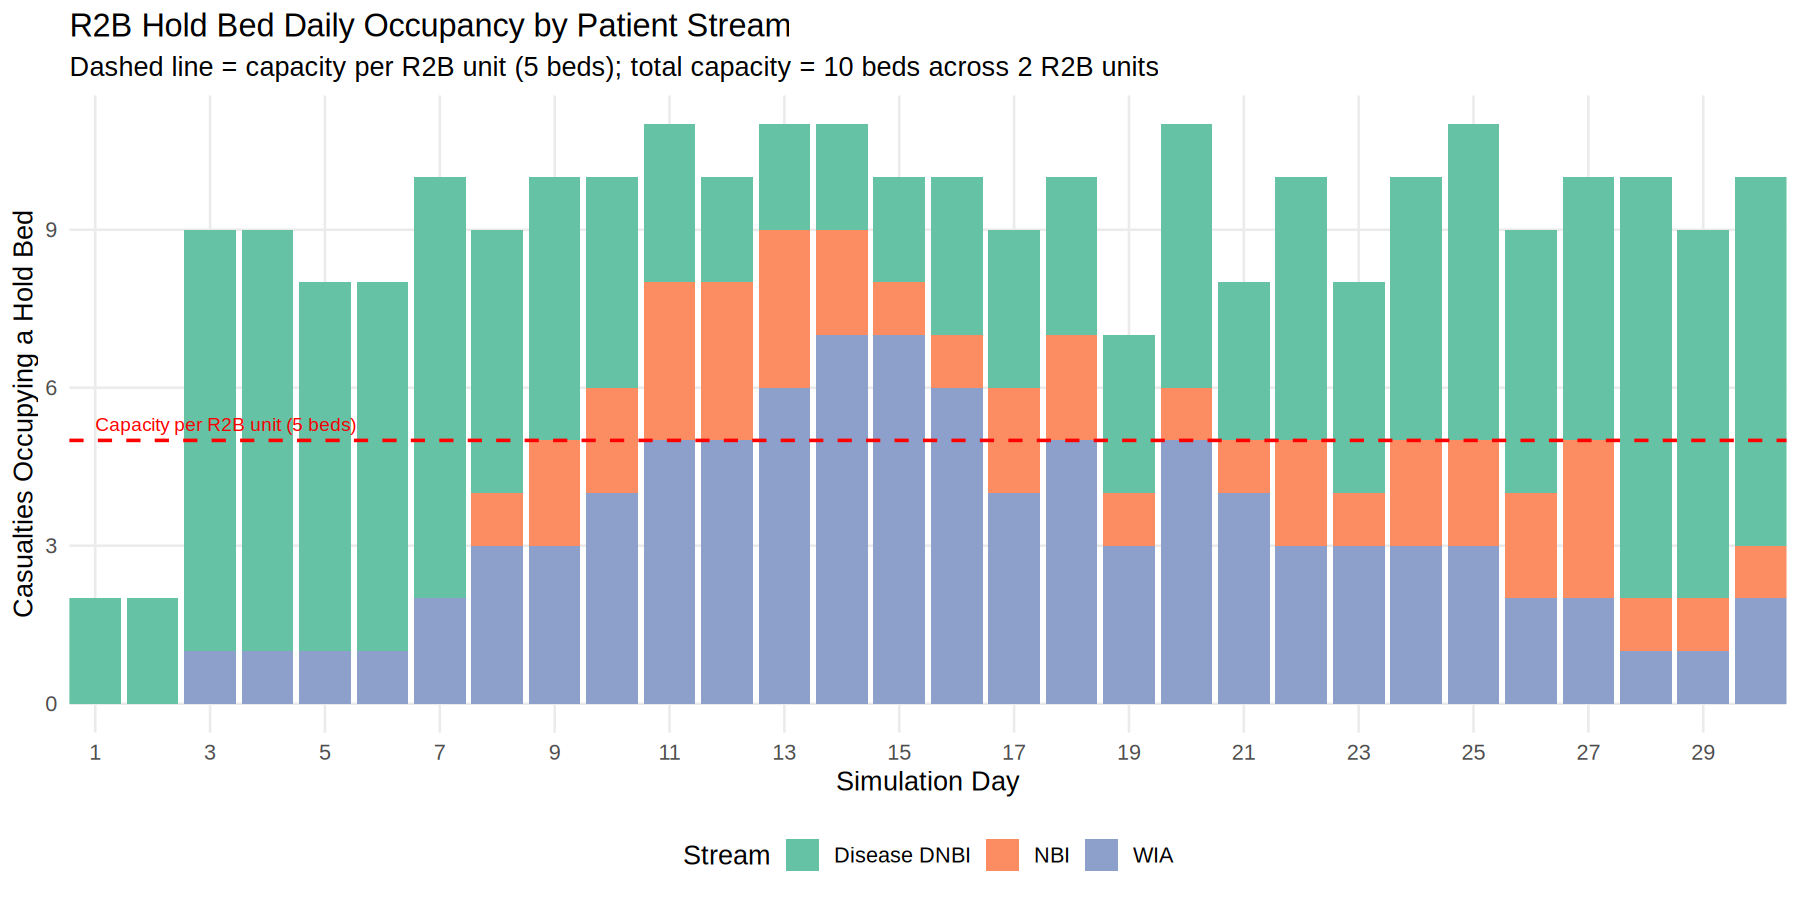
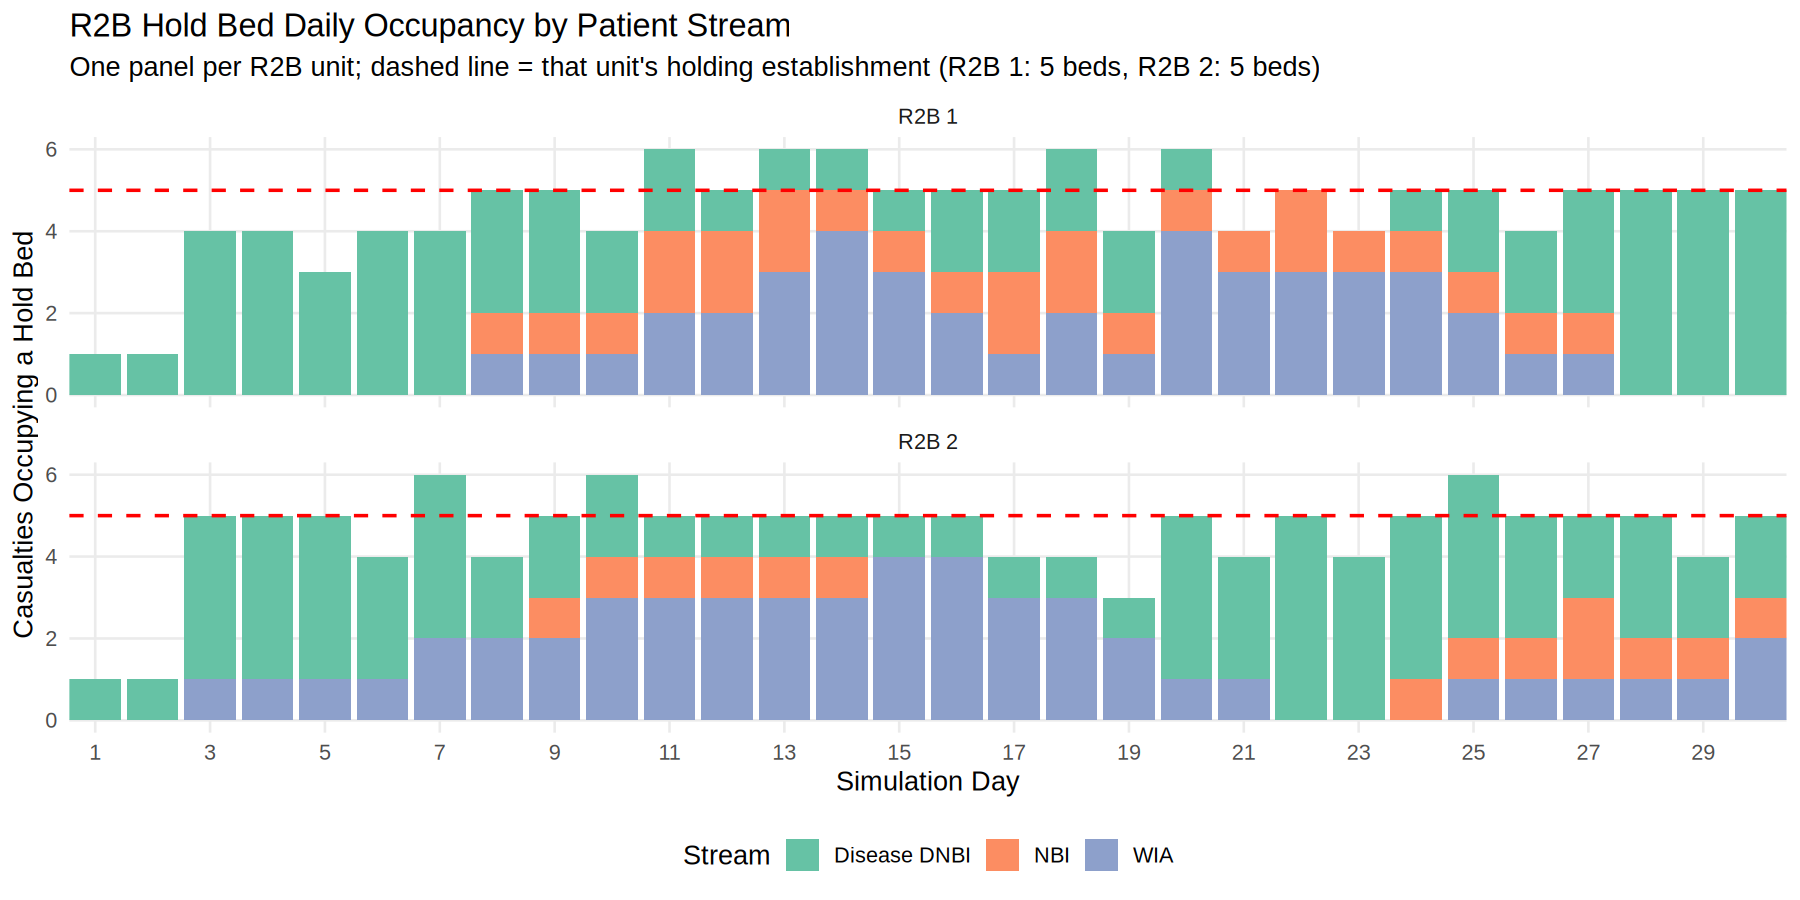
fix(issue-327): give each R2B unit its own occupancy panel and capacity line
The capacity line was drawn at one unit's five beds while the bars carried the
load of both, so the two were not comparable: a bar could sit above the line
while neither unit was over its own establishment, and a unit could be over its
own while the combined bar sat below. The line answered no question a reader
would ask of it.

Each unit now has its own panel and its own line. All fifty holding episodes
carry the unit that held them, the r2b attribute being set when the casualty is
routed, so the split needs no new attribute and no assumption about which unit
took whom.

The capacity is read from the establishment rather than restated in the source.
It was a literal 5 carrying a comment that it came from env_data.json, which is
the drift that comment invites; r2b_hold_capacity() derives one row per unit
from the resource identifiers build_environment() created, so unequal units
would each draw their own line rather than sharing one that fits neither.

The replication figure is changed with the single-run one, both having carried
the same line against the same combined bars.

The paper's reading of the line is rewritten with it: a bar above the line is
now that unit over its own establishment, which is what the sentence claimed
before and the figure did not support.

Only the tracked figure moves. The seed-42 evidence set reproduces byte for
byte, the fast suite passes 29 of 29, roxygen holds at 171 and lint falls by
two with the annotate() calls removed.

Refs #327
[…]

diff --git a/docs/Single_Run_Analysis.md b/docs/Single_Run_Analysis.md
@@ -202,9 +202,9 @@ The derivation, under the baseline parameters and this run's 219 DNBI casualties
 - **Expected concurrent occupancy from the disease stream alone: 3.1 × 5.17 ≈ 16.0 beds** against 10 available (5 per R2B unit × 2 units)
 - The non-surgical wounded in action and non-battle injury streams sit on top of that. They cannot be derived the same way, because the run's own figure for them is already suppressed by the routing policy, but even after 176 casualties had been diverted upstream they contributed a further 4.1 beds on average, so the true demand is higher again than the disease term alone.
 
-![Stacked bar chart of the casualties occupying an R2B hold bed on each simulation day, each bar decomposed into the disease DNBI, non-battle injury and wounded in action streams, with a dashed reference line at the five-bed per-unit capacity, bars reaching eleven on day 11 and all three streams still present on the closing day](../images/r2b_hold_occupancy.png)
+![Two stacked bar charts of the casualties occupying an R2B hold bed on each simulation day, one panel per R2B unit, each bar decomposed into the disease DNBI, non-battle injury and wounded in action streams, each panel carrying a dashed reference line at that unit's five-bed establishment, both units sitting at or above the line through most of the run and all three streams still present on the closing day](../images/r2b_hold_occupancy.png)
 
-Disease DNBI was the largest stream over the opening week and again over the closing third of the run, averaging 4.6 casualties a day against 3.1 for wounded in action and 1.3 for non-battle injury, and it is the stream that both opens and closes the campaign's occupancy. The series counts a casualty on every day their stay touches, whatever fraction of it they spent in the bed, so it reads above the mean concurrent occupancy the beds themselves record. The dashed line marks the five beds a single R2B unit holds, so any bar above it is a load neither unit could carry alone. The wounded in action stream peaked at 7 in the middle of the run and was still present on the closing day, as were the other two: no stream clears before the campaign ends. Relieving the hold-bed constraint over a sustained campaign is nonetheless a question of managing disease rather than of surgical throughput, disease being the larger stream throughout and the one the arithmetic above shows exceeding capacity on its own. Disease dominating a forward holding pathway matches the campaign record, in which sickness has repeatedly produced admission loads as large as or larger than wounding [[10]](#references).
+Disease DNBI was the largest stream over the opening week and again over the closing third of the run, averaging 4.6 casualties a day against 3.1 for wounded in action and 1.3 for non-battle injury, and it is the stream that both opens and closes the campaign's occupancy. The series counts a casualty on every day their stay touches, whatever fraction of it they spent in the bed, so it reads above the mean concurrent occupancy the beds themselves record. Each unit has its own panel and its own dashed line at the five beds it holds, so a bar above the line is that unit over its own establishment rather than a combined load compared against a single unit's capacity. The wounded in action stream peaked at 7 in the middle of the run and was still present on the closing day, as were the other two: no stream clears before the campaign ends. Relieving the hold-bed constraint over a sustained campaign is nonetheless a question of managing disease rather than of surgical throughput, disease being the larger stream throughout and the one the arithmetic above shows exceeding capacity on its own. Disease dominating a forward holding pathway matches the campaign record, in which sickness has repeatedly produced admission loads as large as or larger than wounding [[10]](#references).
 
 **Three remedies are available to a planner, and the arithmetic above rules one of them out.** Shortening the hold does not work at all: moving the most common stay from 5 days to 3 brings the expected duration down to 4.5 days and the disease stream's expected occupancy to 14.0 beds, still 40% over the 10 available, and even a most-common stay of half a day, the shortest the distribution permits, leaves 11.3 beds and does not fit inside capacity. Adding beds works but is expensive: 10 per unit gives 20 against a disease demand of about 16.0 plus the wounded in action and non-battle injury load on top of it, which is barely enough headroom to absorb the day-to-day swings the arrival process produces, whereas 8 per unit sits at or below expected demand and leaves no margin at all. An evacuation threshold is the cheapest and the most consequential: sending on any casualty whose drawn recovery exceeds three days moves roughly 85% of hold patients forward to R2E and all but removes the R2B saturation, at the price of transferring a non-surgical medical load onto R2E holding and intensive care. What transfers is the unserved remainder of each casualty's own recovery rather than a fresh duration drawn on arrival (see README [R2B Trajectory](../README.md#r2b-trajectory)), so the change moves a fixed quantity of bed time between echelons rather than creating more of it. Each of the three is a configuration change a planner can make and test across replications; none is evaluated here, one run being too coarse to separate the effect from sampling variation.
 
